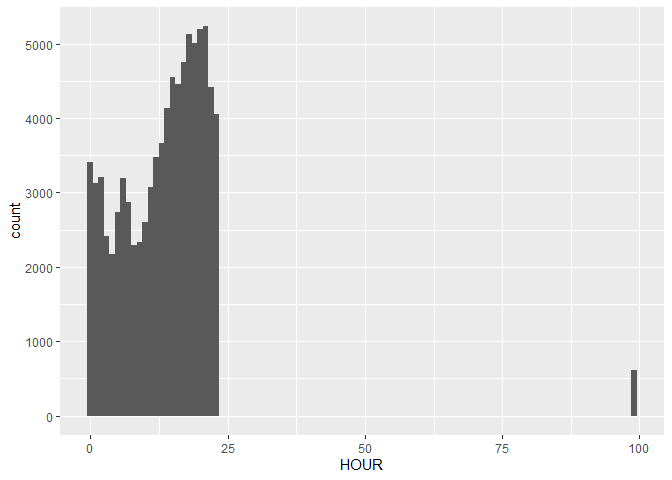
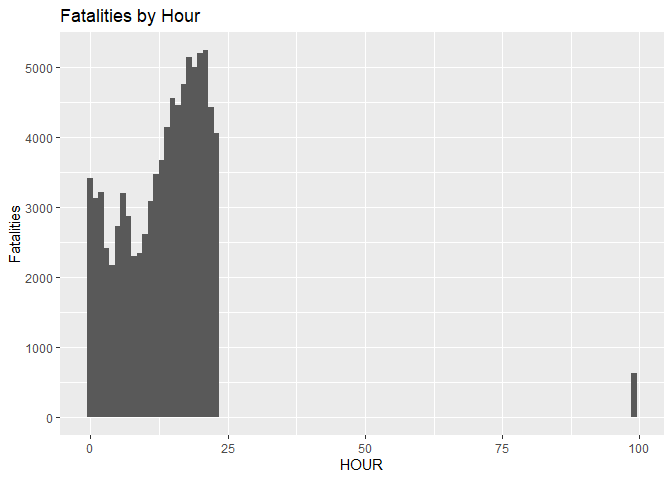
Working on graphs in TIME analysis

diff --git a/README.md b/README.md
@@ -478,9 +478,8 @@ df %>% group_by(MONTH) %>% summarise(count = sum(FATALS)) %>% arrange(desc(count
     ## 12     2 20478
 
 ``` r
-farb <- c("#4100f3", "#1e00ff", "#5700e7", "#6900d9", "#9100ac", "#a70085", "#ba004d", "#b1006d", "#9d009a", "#c30004", "#8500bc", "#7800cb")
 farb <- c("#4100f3", "#1e00ff", "#5700e7", "#6900d9", "#dd00de", "#d3007f", "#c80028", "#ce0053", "#d900ae", "#c91e1e", "#b500e4", "#8a00e9")
-
+farb<-c("#c91e1e","#c80028","#ce0053","#d3007f","#d900ae","#dd00de","#b500e4", "#8a00e9","#6900d9","#5700e7","#4100f3", "#1e00ff")
 plot_names <- c('1' = "January",
                 '2' = "February",
                 '3' = "March",
@@ -494,7 +493,7 @@ plot_names <- c('1' = "January",
                 '11' = "November",
                 '12' = "December")
 
-master %>% group_by(DAY) %>% ggplot(aes(x = DAY, weight = FATALS)) + geom_bar(aes(fill = as.factor(MONTH))) + facet_wrap(~MONTH, labeller = as_labeller(plot_names))+geom_hline(yintercept = 200, color='RED') + theme(legend.position="bottom") + scale_fill_manual(values= farb)
+master %>% group_by(DAY) %>% ggplot(aes(x = DAY, weight = FATALS)) + geom_bar(aes(fill = factor(MONTH, levels = c("10","7","8","6","9","5","11","12","4","3","1","2"))))+ facet_wrap(~MONTH, labeller = as_labeller(plot_names)) +geom_hline(yintercept = 200, color='RED') + theme(legend.position="bottom") + scale_fill_manual(values= farb)+ theme( legend.position="right")+labs(fill='Monthly Fatalities') + ylab("Fatalities") + ggtitle("Fatalities by Day and Month")
 ```
 
 ![](README_files/figure-gfm/unnamed-chunk-16-1.png)<!-- -->
@@ -511,10 +510,41 @@ It appears that fatal crashes occur the most in the beginning of the
 year, and decrease heavily until December for all of the years.
 
 ``` r
-df1 %>% ggplot(aes(x = HOUR)) + geom_histogram(bins = 100)
+df1 %>% ggplot(aes(x = HOUR)) + geom_histogram(bins = 100) + ylab("Fatalities") + ggtitle("Fatalities by Hour")
 ```
 
 ![](README_files/figure-gfm/unnamed-chunk-18-1.png)<!-- -->
+
+``` r
+df1 %>% filter(HOUR >24)
+```
+
+    ## # A tibble: 617 × 28
+    ## # Groups:   STATENAME, YEAR [109]
+    ##    STATENAME  ST_CASE MONTH   DAY  YEAR  HOUR MINUTE RUR_URBNAME LATITUDE
+    ##    <chr>        <dbl> <dbl> <dbl> <dbl> <dbl>  <dbl> <chr>          <dbl>
+    ##  1 Alabama      10224     4    14  2017    99     99 Rural           30.3
+    ##  2 Alabama      10624    10     2  2017    99     99 Urban           30.6
+    ##  3 Alaska       20026     6     1  2017    99     99 Rural           55.4
+    ##  4 Alaska       20044     8    22  2017    99     99 Rural           64.7
+    ##  5 Arizona      40410     1     8  2017    99     99 Rural          100. 
+    ##  6 Arizona      40812    12     5  2017    99     99 Urban           32.1
+    ##  7 Arizona      40930    12    29  2017    99     99 Rural           32.7
+    ##  8 Arkansas     50452     5    27  2017    99     99 Rural           36.2
+    ##  9 California   60004     1    14  2017    99     99 Rural           38.1
+    ## 10 California   60174     3     6  2017    99     99 Rural           34.9
+    ## # ℹ 607 more rows
+    ## # ℹ 19 more variables: LONGITUD <dbl>, LGT_CONDNAME <chr>, FATALS <dbl>,
+    ## #   DRUNK_DR <dbl>, DAY_WEEK <dbl>, WEATHERNAME <chr>, AGE <dbl>,
+    ## #   SEXNAME <chr>, DRINKINGNAME <chr>, DRUGSNAME <chr>, LAG_HRSNAME <chr>,
+    ## #   VEH_NO <dbl>, PER_NO <dbl>, ...23 <dbl>, HIT_RUNNAME <chr>,
+    ## #   NUMOCCSNAME <chr>, L_STATENAME <chr>, SPEEDRELNAME <chr>, VSPD_LIM <dbl>
+
+``` r
+df1 %>% filter(HOUR <= 24) %>% ggplot(aes(x = as.factor(HOUR), weight = FATALS)) + geom_bar() + ylab("Fatalities") + ggtitle("Fatalities by Hour") 
+```
+
+![](README_files/figure-gfm/unnamed-chunk-18-2.png)<!-- -->
 
 ``` r
 summary(df1$FATALS)
@@ -525,7 +555,7 @@ summary(df1$FATALS)
 
 ``` r
 df1 %>% ggplot(aes(x = as.factor(DAY_WEEK), weight = FATALS)) + geom_bar() + scale_x_discrete(
-                      labels=c("Sunday","Monday", "Tuesday", "Wednesday","Thursday","Friday", "Saturday")) 
+                      labels=c("Sunday","Monday", "Tuesday", "Wednesday","Thursday","Friday", "Saturday")) + xlab("Weekday") + ylab("Fatalities") + ggtitle("Fatalities by Weekday")
 ```
 
 ![](README_files/figure-gfm/unnamed-chunk-20-1.png)<!-- -->
